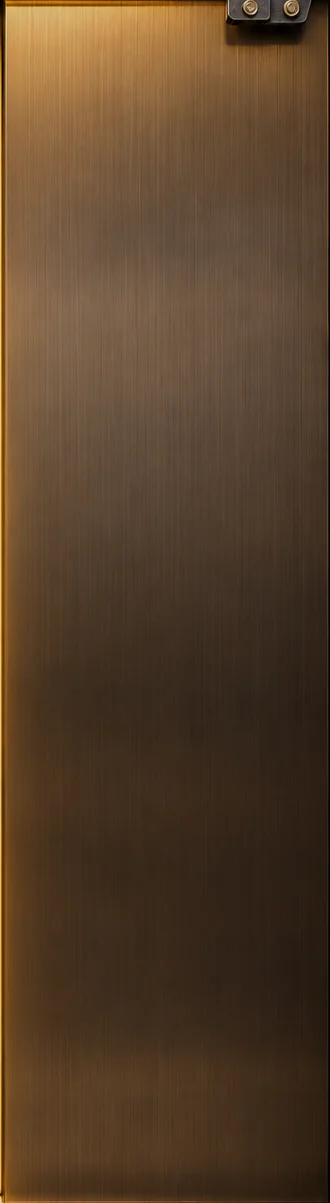
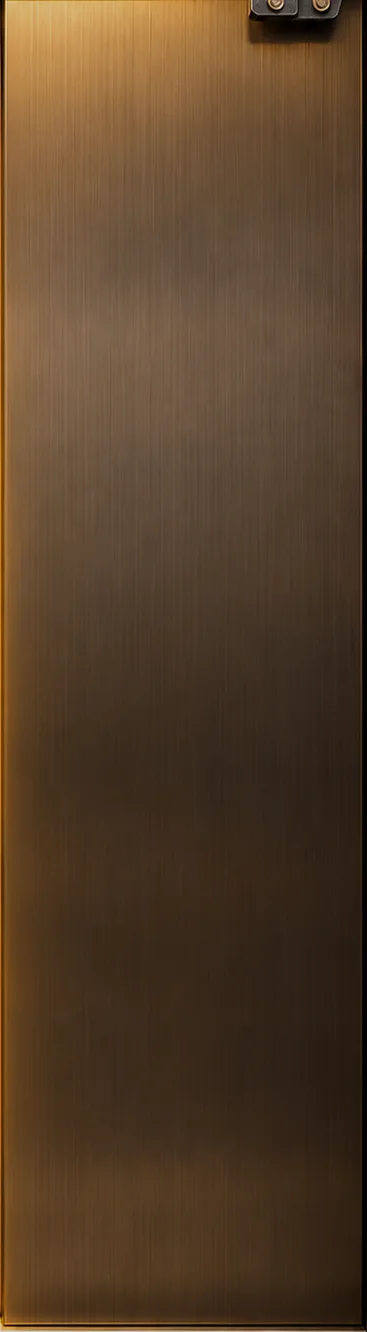
v23

Changed region(s): [[0.0, 0.0, 1.0, 1.0]]

diff --git a/site.js b/site.js
@@ -14,7 +14,7 @@
   /* ---------- Первый экран: дверь открывается, камера въезжает в свет ---------- */
   /* масштаб, при котором проём двери закрывает весь экран — «мы вошли» */
   const fillScale = door => {
-    const ow = door.offsetWidth * .6445, oh = door.offsetHeight * .7832;
+    const ow = door.offsetWidth * .6513, oh = door.offsetHeight * .7835;
     const off = Math.abs(door.offsetHeight * .055);
     return Math.max(innerWidth / ow, (innerHeight + off * 2) / oh) * 1.22;   // с запасом: рама уходит за края целиком
   };
@@ -50,6 +50,11 @@
 
   /* ---------- Шахта: лифт едет между этажами и останавливается у дверей ---------- */
   const shaft = document.getElementById('shaft');
+  /* неизменная высота экрана: адресная строка Safari не сдвигает расчёты */
+  const probe = document.createElement('div');
+  probe.style.cssText = 'position:fixed;left:0;top:0;width:1px;height:100vh;height:100svh;visibility:hidden;pointer-events:none';
+  document.body.appendChild(probe);
+  let VH = probe.offsetHeight || innerHeight;
   if (shaft) {
     const wall = shaft.querySelector('.sh-wall');
     const rails = [...shaft.querySelectorAll('.sh-rail')];
@@ -60,6 +65,7 @@
     let tW = 0, tRail = 0, tRope = 0;
     const clamp = (v, a = 0, b = 1) => Math.min(b, Math.max(a, v));
     const layout = () => {
+      VH = probe.offsetHeight || innerHeight;
       tW = tileH(wall, 3);                         // wall.webp 1024×3072
       wall.style.height = innerHeight + tW + 'px';
       tRail = rails[0] ? tileH(rails[0], 3072 / 180) : 1;
@@ -73,14 +79,14 @@
         s.pad = parseFloat(cs.paddingTop) || 0;
         s.start = s.el.getBoundingClientRect().top + scrollY + s.pad - s.stick;   // дверь встала по центру
         s.len = s.el.offsetHeight - s.pad - s.dh;                                 // сколько она стоит
-        s.E = innerHeight * .95;                                                  // путь открытия и входа
+        s.E = VH * .95;                                                  // путь открытия и входа
         const wrap = s.el.querySelector('.stage-body .wrap');
         const wb = wrap ? wrap.getBoundingClientRect().bottom + scrollY : s.start + s.len;
-        s.dEx = (wb - innerHeight * .35) - s.start;                               // текст ушёл — выходим
-        s.X = innerHeight * .9;                                                   // выход: назад, двери закрываются
-        s.dEx = Math.min(s.dEx, s.len - s.X - innerHeight * .12);                 // успеть закрыть до отъезда
-        const ow = s.door.offsetWidth * .6445, oh = s.dh * .7832, oc = s.stick + s.dh * .551;
-        s.S = Math.max(innerWidth / ow, 2 * Math.max(oc, innerHeight - oc) / oh) * 1.12;
+        s.dEx = (wb - VH * .35) - s.start;                               // текст ушёл — выходим
+        s.X = VH * .9;                                                   // выход: назад, двери закрываются
+        s.dEx = Math.min(s.dEx, s.len - s.X - VH * .12);                 // успеть закрыть до отъезда
+        const ow = s.door.offsetWidth * .6513, oh = s.dh * .7835, oc = s.stick + s.dh * .555;
+        s.S = Math.max(s.el.offsetWidth / ow, 2 * Math.max(oc, VH - oc) / oh) * 1.12;
       });
       /* Передний план: балки и кабели по всему пути лифта (картинки уже размыты) */
       if (fg && !reduce && innerWidth > 820) {
@@ -106,7 +112,7 @@
         const d = s - st.start;
         travel -= clamp(d, 0, st.len);
         const sm = v => v * v * (3 - 2 * v);
-        const open = clamp(d / (st.E * .32));                      // створки расходятся
+        const open = clamp((d - VH * .05) / (st.E * .3));                      // створки расходятся
         const e = sm(clamp((d - st.E * .25) / (st.E * .75)));      // входим в кабину
         const x = clamp((d - st.dEx) / st.X);                      // выход
         const back = sm(clamp(x / .6));                            // камера отъезжает назад
@@ -116,7 +122,7 @@
         st.door.style.setProperty('--s', (1 + depth * (st.S - 1)).toFixed(3));
         st.door.style.setProperty('--k', depth.toFixed(3));
         st.door.style.setProperty('--f', '1');
-        st.el.style.setProperty('--t', (1 - clamp(d / (st.E * .2))).toFixed(3));
+        
       });
       /* сглаживание: слои мягко догоняют прокрутку, без рывков */
       if (cur === null || reduce) cur = travel; else cur += (travel - cur) * .16;

diff --git a/index.html b/index.html
@@ -42,6 +42,7 @@
   <div class="door" data-door="scroll" aria-hidden="true">
     <div class="door-open"><img class="door-cab" src="assets/shaft/cabin.webp" alt=""><span class="door-glow"></span><span class="door-num"><b>1</b>Холл</span><img class="leaf leaf-l" src="assets/shaft/door-l.webp" alt=""><img class="leaf leaf-r" src="assets/shaft/door-r.webp" alt=""></div>
     <img class="door-frame" src="assets/shaft/door-frame.webp" alt="">
+    <span class="door-sill"></span>
   </div>
   <div class="stage-body"><div class="wrap hero-copy">
     <h1 data-fade>Запчасти и сервис<br>для лифтов</h1>
@@ -57,6 +58,7 @@
   <div class="door" data-door="scroll" aria-hidden="true">
     <div class="door-open"><img class="door-cab" src="assets/shaft/cabin.webp" alt=""><span class="door-glow"></span><span class="door-num"><b>2</b>Лавка</span><img class="leaf leaf-l" src="assets/shaft/door-l.webp" alt=""><img class="leaf leaf-r" src="assets/shaft/door-r.webp" alt=""></div>
     <img class="door-frame" src="assets/shaft/door-frame.webp" alt="">
+    <span class="door-sill"></span>
   </div>
   <div class="stage-body"><div class="wrap">
     <h2 class="h2" data-track>Скобяная лавка</h2>
@@ -76,6 +78,7 @@
   <div class="door" data-door="scroll" aria-hidden="true">
     <div class="door-open"><img class="door-cab" src="assets/shaft/cabin.webp" alt=""><span class="door-glow"></span><span class="door-num"><b>3</b>Сервис</span><img class="leaf leaf-l" src="assets/shaft/door-l.webp" alt=""><img class="leaf leaf-r" src="assets/shaft/door-r.webp" alt=""></div>
     <img class="door-frame" src="assets/shaft/door-frame.webp" alt="">
+    <span class="door-sill"></span>
   </div>
   <div class="stage-body"><div class="wrap">
     <h2 class="h2" data-track>Монтаж и сервис</h2>
@@ -111,6 +114,7 @@
   <div class="door" data-door="scroll" aria-hidden="true">
     <div class="door-open"><img class="door-cab" src="assets/shaft/cabin.webp" alt=""><span class="door-glow"></span><span class="door-num"><b>6</b>Контакты</span><img class="leaf leaf-l" src="assets/shaft/door-l.webp" alt=""><img class="leaf leaf-r" src="assets/shaft/door-r.webp" alt=""></div>
     <img class="door-frame" src="assets/shaft/door-frame.webp" alt="">
+    <span class="door-sill"></span>
   </div>
   <div class="stage-body"><div class="wrap">
     <h2 class="h2" data-track>Нам с вами по пути</h2>

diff --git a/site.css b/site.css
@@ -661,6 +661,20 @@ html,body{overflow-x:clip}
 /* Первый этаж открывается так же, как остальные — без запаздывающих переходов */
 .stop.hero .leaf,.stop.hero .door-glow{transition:none}
 
+/* ===== v23: шахта — вертикальный проём по центру (ПК), резкие картинки ===== */
+:root{--col:min(100vw,calc(var(--dh) * 1.5))}
+.shaft{left:50%;right:auto;width:var(--col);transform:translateX(-50%);-webkit-mask-image:linear-gradient(90deg,transparent,#000 6%,#000 94%,transparent);mask-image:linear-gradient(90deg,transparent,#000 6%,#000 94%,transparent)}
+body.home{background:#060505}
+.stage{max-width:var(--col);margin-left:auto;margin-right:auto}
+.home .ride .wrap{max-width:var(--col)}
+/* новая дверь: проём */
+.door-open{left:17.47%;top:16.35%;width:65.13%;height:78.35%}
+.stage > .door{transform-origin:50% 55.5%}
+/* перекрытие этажа под дверью — лифт больше не висит в воздухе */
+.door-sill{position:absolute;left:-60%;right:-60%;top:97.2%;height:9%;z-index:-1;background:linear-gradient(#2b241d 0,#17130f 30%,#0b0908 100%);border-top:2px solid rgba(201,160,80,.55);box-shadow:0 -1px 0 rgba(0,0,0,.6),0 18px 40px rgba(0,0,0,.6)}
+.door-sill::before{content:"";position:absolute;left:0;right:0;top:0;height:40%;background:linear-gradient(rgba(242,194,48,.08),transparent)}
+@media (max-width:820px){:root{--col:100vw}}
+
 /* ===== Табло: стрелка направления ===== */
 .hf-arrow{width:10px;height:14px;fill:none;stroke:var(--gold);stroke-width:1.6;opacity:.15;transition:opacity .4s,transform .4s}
 .hf-arrow.go{opacity:1}
